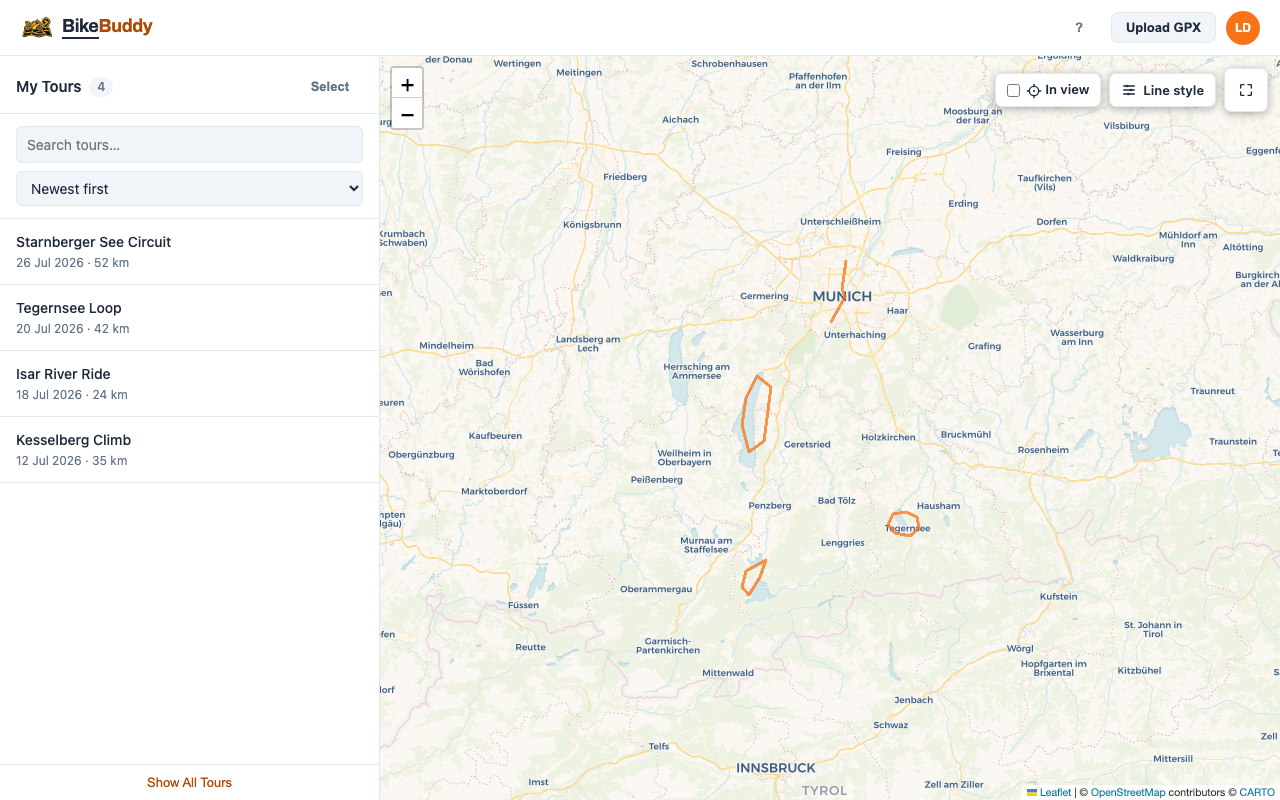
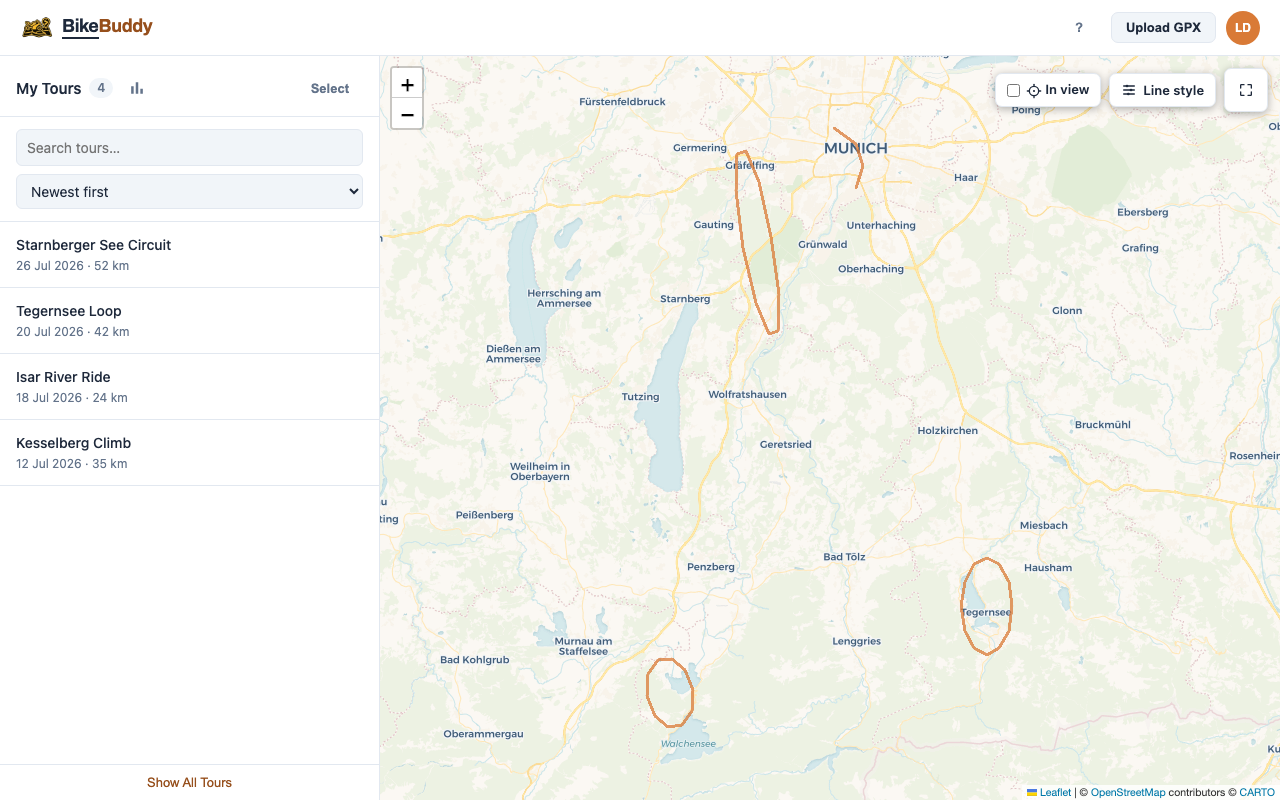
Soften accent color to match CollectionBuddy (#501)
The orange accent (#f97316, Tailwind orange-500) read as more vivid
than CollectionBuddy's muted rust tone, so the two nobuddy.org tools
looked mismatched side by side. Desaturated the --color-primary
family to the same hue at ~65-70% saturation instead of ~95%, keeping
each variable's original lightness so the documented AA contrast
ratios still hold. Also updated the default map route color and
retook the README screenshots that showed the old orange.

diff --git a/frontend/src/style.css b/frontend/src/style.css
@@ -20,22 +20,22 @@
   --color-surface: #ffffff;
   --color-surface-2: #f1f5f9;
   --color-border: #e2e8f0;
-  --color-primary: #f97316;
-  --color-primary-hover: #ea6c0a;
-  /* White text on --color-primary is only ~2.8:1, short of the 4.5:1 AA
+  --color-primary: #d97a36;
+  --color-primary-hover: #cd6c27;
+  /* White text on --color-primary is only ~3:1, short of the 4.5:1 AA
      floor — filled buttons that carry text use this darker shade instead. */
-  --color-primary-strong: #c2410c;
-  --color-primary-strong-hover: #9a3412;
+  --color-primary-strong: #ad5b21;
+  --color-primary-strong-hover: #904c1b;
   --color-text: #1e293b;
   --color-text-muted: #64748b;
   --color-danger: #ef4444;
   /* Same AA gap as --color-primary above, for filled danger buttons. */
   --color-danger-strong: #b91c1c;
   --color-danger-strong-hover: #991b1b;
-  /* --color-primary (#f97316) is only ~2.8:1 on a light surface, short of the
+  /* --color-primary (#d97a36) is only ~3:1 on a light surface, short of the
      4.5:1 normal-text AA floor — this darker shade covers orange text sitting
      directly on a surface background (wordmark, search highlight, buttons). */
-  --color-primary-text: #ae4a04;
+  --color-primary-text: #964f1c;
   --navbar-height: 56px;
   --detail-width: 320px;
   /* Wider than --detail-width: at 320px the selection bar's count
@@ -54,8 +54,8 @@
     --color-text-muted: #8892a4;
     /* The light-theme shade above is too dark to read against the dark
        surface, so dark mode gets its own lighter value rather than reusing
-       it — --color-primary already clears 6:1+ here. */
-    --color-primary-text: #f97316;
+       it — this clears 6:1+ here. */
+    --color-primary-text: #e0954f;
   }
 
   /* Leaflet's own stylesheet (vendored via CDN, index.html) hardcodes its

diff --git a/frontend/src/lib/lineStyle.js b/frontend/src/lib/lineStyle.js
@@ -3,7 +3,7 @@
 // Dependency-free line-style preference. The pure helpers are unit-tested; the
 // localStorage reads/writes below are covered by e2e.
 
-export const DEFAULT_LINE_STYLE = { color: '#f97316', weight: 3, opacity: 0.75 };
+export const DEFAULT_LINE_STYLE = { color: '#d97a36', weight: 3, opacity: 0.75 };
 export const STORAGE_KEY = 'bikebuddy-line-style';
 
 export const WEIGHT_MIN = 1;
